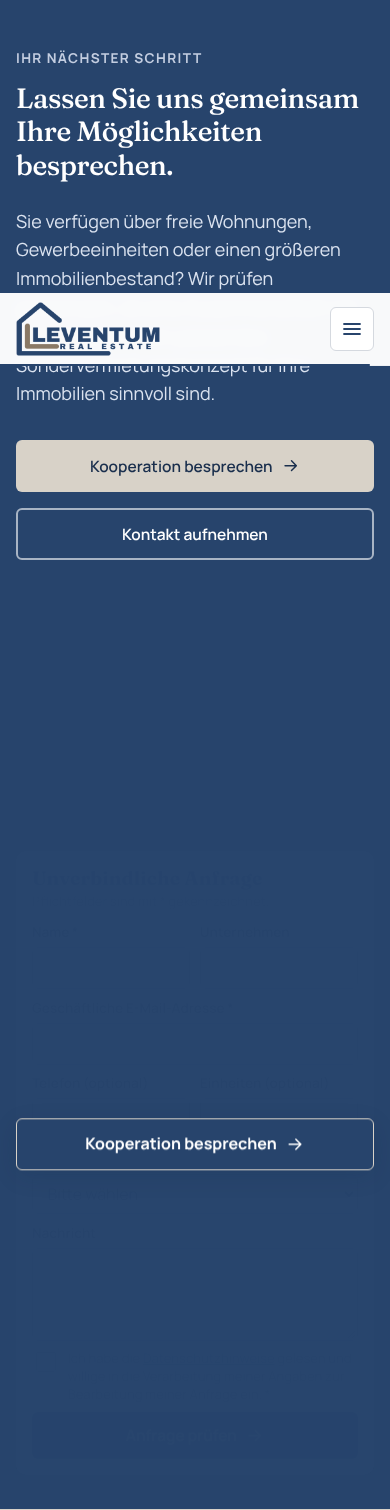
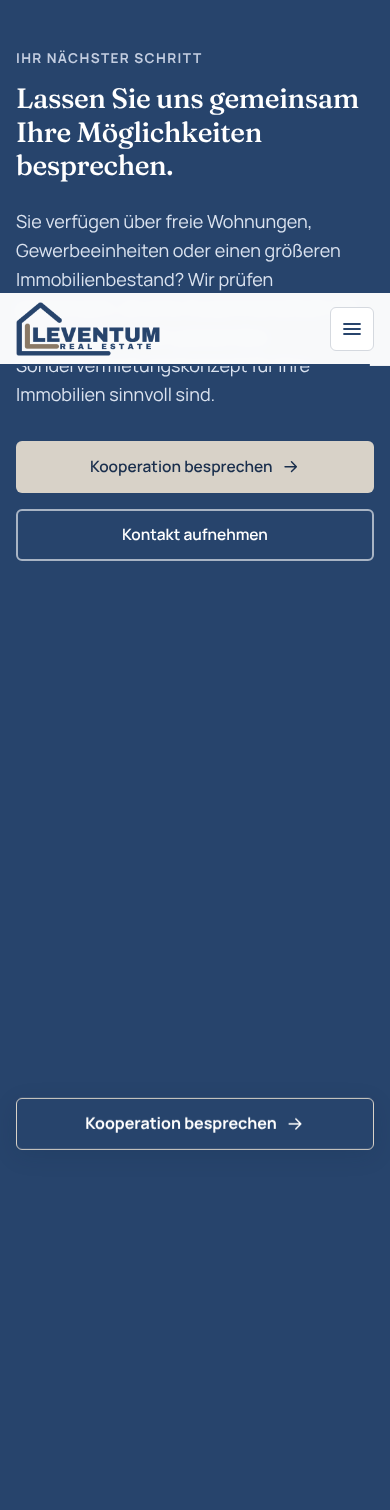
Linkvorschau mit neuem Bild, Hero-Foto bis zum Bildschirmrand, neue Reihenfolge der Vorteile-Karten
Claude-Session: https://claude.ai/code/session_01KEcscF8ABiEHPf9rzLQ9PG

diff --git a/index.html b/index.html
@@ -13,23 +13,23 @@
   <meta property="og:description" content="Leerstand vermeiden. Planbare Mieteinnahmen durch einen gewerblichen Mietpartner mit individuellen Sondervermietungskonzepten.">
   <link rel="canonical" href="https://wertcheck.github.io/Leventum-/">
   <meta property="og:url" content="https://wertcheck.github.io/Leventum-/">
-  <meta property="og:image" content="https://wertcheck.github.io/Leventum-/assets/img/og-leventum.jpg">
-  <meta property="og:image:secure_url" content="https://wertcheck.github.io/Leventum-/assets/img/og-leventum.jpg">
+  <meta property="og:image" content="https://wertcheck.github.io/Leventum-/assets/img/og-vorschau-leventum.jpg">
+  <meta property="og:image:secure_url" content="https://wertcheck.github.io/Leventum-/assets/img/og-vorschau-leventum.jpg">
   <meta property="og:image:type" content="image/jpeg">
   <meta property="og:image:width" content="1200">
   <meta property="og:image:height" content="630">
-  <meta property="og:image:alt" content="LEVENTUM REAL ESTATE: Leerstand vermeiden, Planbare Mieteinnahmen. Helle, möblierte Wohnung.">
+  <meta property="og:image:alt" content="LEVENTUM REAL ESTATE – Leerstand vermeiden. Planbare Mieteinnahmen mit Leventum. Helle, möblierte Wohnung.">
   <meta name="twitter:card" content="summary_large_image">
   <meta name="twitter:title" content="LEVENTUM REAL ESTATE – Ihr gewerblicher Mietpartner">
   <meta name="twitter:description" content="Leerstand vermeiden. Planbare Mieteinnahmen durch einen gewerblichen Mietpartner mit individuellen Sondervermietungskonzepten.">
-  <meta name="twitter:image" content="https://wertcheck.github.io/Leventum-/assets/img/og-leventum.jpg">
+  <meta name="twitter:image" content="https://wertcheck.github.io/Leventum-/assets/img/og-vorschau-leventum.jpg">
   <link rel="icon" href="assets/img/favicon.svg" type="image/svg+xml">
   <link rel="preload" href="assets/fonts/fraunces-latin-wght-normal.woff2" as="font" type="font/woff2" crossorigin>
   <link rel="preload" href="assets/fonts/manrope-latin-wght-normal.woff2" as="font" type="font/woff2" crossorigin>
   <link rel="stylesheet" href="css/tokens.css?v=89aeff11">
   <link rel="stylesheet" href="css/base.css?v=e09bdd14">
   <link rel="stylesheet" href="css/components.css?v=ea470df2">
-  <link rel="stylesheet" href="css/sections.css?v=44cb8596">
+  <link rel="stylesheet" href="css/sections.css?v=25d0d6a4">
   <script>document.documentElement.classList.add('js');</script>
 </head>
 <body>
@@ -173,16 +173,6 @@
         </div>
         <ul class="grid grid-4 benefit-grid">
           <li class="card">
-            <span class="card-icon"><svg class="icon" aria-hidden="true"><use href="#i-calendar"/></svg></span>
-            <h3>Verlässlich vereinbarte Mietzahlungen</h3>
-            <p>Miethöhe, Fälligkeit und Zahlung sind vertraglich geregelt.</p>
-          </li>
-          <li class="card">
-            <span class="card-icon"><svg class="icon" aria-hidden="true"><use href="#i-users"/></svg></span>
-            <h3>Ein zentraler Ansprechpartner</h3>
-            <p>Ein gewerblicher Vertragspartner für die Zusammenarbeit.</p>
-          </li>
-          <li class="card">
             <span class="card-icon"><svg class="icon" aria-hidden="true"><use href="#i-file"/></svg></span>
             <h3>Individuelle Vertrags&shy;gestaltung</h3>
             <p>Laufzeit, Miethöhe und Nutzung passend zum Objekt.</p>
@@ -191,6 +181,16 @@
             <span class="card-icon"><svg class="icon" aria-hidden="true"><use href="#i-shield"/></svg></span>
             <h3>Mietsicherung nach Vereinbarung</h3>
             <p>Etwa Kaution oder Bürgschaft, je nach Objekt. Nach anwaltlicher Prüfung.</p>
+          </li>
+          <li class="card">
+            <span class="card-icon"><svg class="icon" aria-hidden="true"><use href="#i-calendar"/></svg></span>
+            <h3>Verlässlich vereinbarte Mietzahlungen</h3>
+            <p>Miethöhe, Fälligkeit und Zahlung sind vertraglich geregelt.</p>
+          </li>
+          <li class="card">
+            <span class="card-icon"><svg class="icon" aria-hidden="true"><use href="#i-users"/></svg></span>
+            <h3>Ein zentraler Ansprechpartner</h3>
+            <p>Ein gewerblicher Vertragspartner für die Zusammenarbeit.</p>
           </li>
           <li class="card">
             <span class="card-icon"><svg class="icon" aria-hidden="true"><use href="#i-wrench"/></svg></span>

diff --git a/css/sections.css b/css/sections.css
@@ -437,11 +437,11 @@
 .model-head h2 .ln-block { white-space: nowrap; }
 @media (max-width: 900px) { .model-head h2 { font-size: min(1.55rem, 7.3cqw); } }
 
-
-/* Hero-Bild bis 1100 px: randlos über die ganze Breite, nach unten verlängert (Foto füllt die Fläche, ohne Unschärfe) */
+/* Hero bis 1100 px: Foto randlos, reicht genau bis zum unteren Rand des sichtbaren Bildschirms und fadet dort minimal aus */
 @media (max-width: 1100px) {
-  .hero-visual { margin-inline: -16px; }
-  .hero-figure { aspect-ratio: 27 / 20; -webkit-mask-image: linear-gradient(to bottom, transparent 0, #000 40px, #000 calc(100% - 70px), transparent 100%); mask-image: linear-gradient(to bottom, transparent 0, #000 40px, #000 calc(100% - 70px), transparent 100%); -webkit-mask-composite: source-over; mask-composite: add; }
+  .hero { min-height: calc(100vh - var(--header-h)); min-height: calc(100svh - var(--header-h)); display: flex; flex-direction: column; }
+  .hero > .hero-grid { flex: 1; grid-template-rows: auto 1fr; }
+  .hero-visual { position: relative; align-self: stretch; margin-inline: -16px; min-height: calc(100vw * 667 / 1600); max-height: calc(100vw * 10 / 11); }
+  .hero-figure { position: absolute; inset: 0; aspect-ratio: auto; -webkit-mask-image: linear-gradient(to bottom, transparent 0, #000 40px, #000 calc(100% - 36px), transparent 100%); mask-image: linear-gradient(to bottom, transparent 0, #000 40px, #000 calc(100% - 36px), transparent 100%); -webkit-mask-composite: source-over; mask-composite: add; }
   .hero-figure img { transform: none; width: 100%; height: 100%; object-fit: cover; object-position: 50% 55%; }
 }
-@media (min-width: 600px) and (max-width: 1100px) { .hero-figure { aspect-ratio: 1600 / 667; } }

diff --git a/datenschutz.html b/datenschutz.html
@@ -11,7 +11,7 @@
   <link rel="stylesheet" href="css/tokens.css?v=89aeff11">
   <link rel="stylesheet" href="css/base.css?v=e09bdd14">
   <link rel="stylesheet" href="css/components.css?v=ea470df2">
-  <link rel="stylesheet" href="css/sections.css?v=44cb8596">
+  <link rel="stylesheet" href="css/sections.css?v=25d0d6a4">
 </head>
 <body>
   <header class="site-header"><div class="container header-inner">

diff --git a/impressum.html b/impressum.html
@@ -11,7 +11,7 @@
   <link rel="stylesheet" href="css/tokens.css?v=89aeff11">
   <link rel="stylesheet" href="css/base.css?v=e09bdd14">
   <link rel="stylesheet" href="css/components.css?v=ea470df2">
-  <link rel="stylesheet" href="css/sections.css?v=44cb8596">
+  <link rel="stylesheet" href="css/sections.css?v=25d0d6a4">
 </head>
 <body>
   <header class="site-header"><div class="container header-inner">

diff --git a/README.md b/README.md
@@ -43,11 +43,11 @@ Ohne Backend läuft das Formular im **Demo-Modus** und versendet nichts (klar ge
 - **Bewegung:** ruhiger Hero-Einstieg, Hover-Mikrointeraktionen, animiertes FAQ, dünner Scroll-Fortschritt im Header. Kein Fade-up-Scrollreveal; alles entfällt bei `prefers-reduced-motion`.
 
 ## Linkvorschau (WhatsApp, Messenger, soziale Netzwerke)
-Metadaten (Open Graph, Twitter Card) stehen im `<head>` von `index.html`, das Vorschaubild ist `assets/img/og-leventum.jpg` (1200 × 630, JPEG, unter 100 KB). `og:image` und `twitter:image` müssen absolute URLs sein; sie zeigen auf `https://wertcheck.github.io/Leventum-/assets/img/og-leventum.jpg`. Bei einer eigenen Domain diese URLs, `og:url` und `canonical` anpassen.
+Metadaten (Open Graph, Twitter Card) stehen im `<head>` von `index.html`, das Vorschaubild ist `assets/img/og-vorschau-leventum.jpg` (1200 × 630, JPEG). `og:image` und `twitter:image` müssen absolute URLs sein; sie zeigen auf `https://wertcheck.github.io/Leventum-/assets/img/og-vorschau-leventum.jpg`. Bei einer eigenen Domain diese URLs, `og:url` und `canonical` anpassen.
 
 Testen nach dem Deployment:
-1. Bild direkt im Browser öffnen: `https://wertcheck.github.io/Leventum-/assets/img/og-leventum.jpg` (muss ohne Login laden).
+1. Bild direkt im Browser öffnen: `https://wertcheck.github.io/Leventum-/assets/img/og-vorschau-leventum.jpg` (muss ohne Login laden).
 2. Facebook/Messenger: Sharing Debugger (developers.facebook.com/tools/debug), URL eingeben und „Erneut abrufen“ wählen. Das löscht den Facebook-Cache.
 3. LinkedIn: Post Inspector (linkedin.com/post-inspector). X/Twitter: Link in einen Entwurf einfügen.
 4. WhatsApp hat keinen eigenen Debugger und speichert Vorschauen lange zwischen. Nach einer Änderung hilft es, den Link mit einem Zusatz zu teilen, zum Beispiel `https://wertcheck.github.io/Leventum-/?v=2`, oder zuvor den Facebook-Debugger zu nutzen (WhatsApp nutzt ähnliche Daten). Bereits gesendete Nachrichten ändern sich nicht.
-5. Bei einem neuen Bild den Dateinamen ändern (z. B. `og-leventum-2.jpg`), damit kein Cache greift.
+5. Bei einem neuen Bild den Dateinamen ändern (z. B. `og-vorschau-leventum-2.jpg`), damit kein Cache greift.
